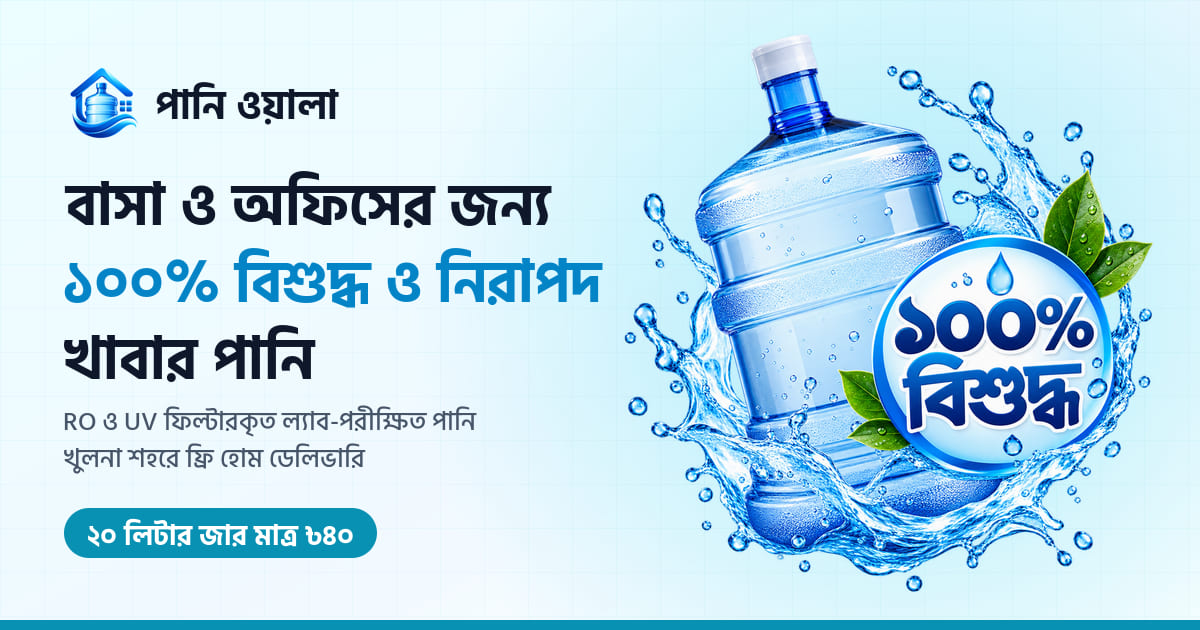
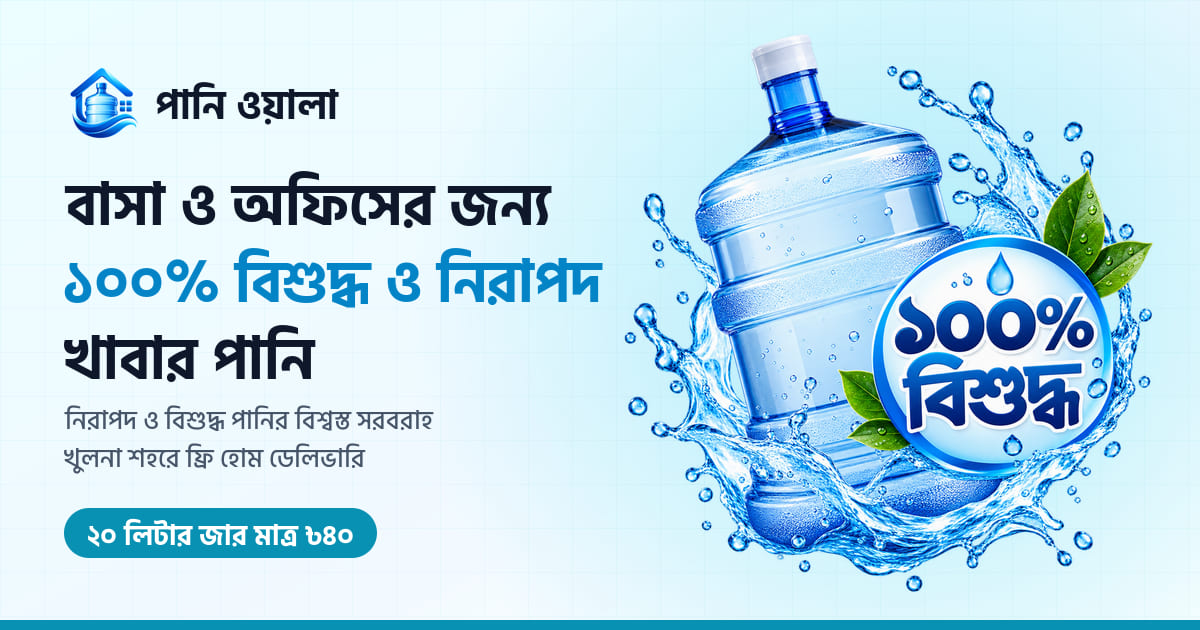
feat: add OpenGraph generation script and core landing page components

Changed region(s): [[0.0308, 0.6333, 0.4008, 0.6937]]

diff --git a/src/components/PurityProcess.tsx b/src/components/PurityProcess.tsx
@@ -28,14 +28,14 @@ export const PurityProcess: React.FC = () => {
     },
     {
       num: '৩',
-      title: 'রিভার্স অসমোসিস (RO) মেমব্রেন',
+      title: 'উন্নত মেমব্রেন পরিশোধন',
       desc: '০.০০০১ মাইক্রন মেমব্রেনের মাধ্যমে ক্ষতিকর ভারী ধাতু যেমন আর্সেনিক, সীসা ও লবণ দূর করে।',
       icon: Microscope,
     },
     {
       num: '৪',
-      title: 'আল্ট্রাভায়োলেট (UV) স্টেরিলাইজার',
-      desc: 'উচ্চ ক্ষমতার UV রশ্মির মাধ্যমে পানিতে থাকা ক্ষতিকর ব্যাকটেরিয়া ও ভাইরাসের ডিএনএ ধ্বংস করে।',
+      title: 'জীবাণুমুক্তকরণ',
+      desc: 'আধুনিক জীবাণুনাশক প্রযুক্তির মাধ্যমে পানিতে থাকা ক্ষতিকর ব্যাকটেরিয়া ও ভাইরাস ধ্বংস করে।',
       icon: Sparkles,
     },
     {
@@ -104,7 +104,7 @@ export const PurityProcess: React.FC = () => {
                 <ShieldCheck className="w-6 h-6 text-white" />
               </div>
               <h3 className="text-lg font-bold mb-2">
-                ল্যাবরেটরি টেস্টেড ও BSTI অনুমোদিত
+                নিরাপদ ও বিশুদ্ধ পানির বিশ্বস্ত সরবরাহ
               </h3>
               <p className="text-xs text-cyan-100 leading-relaxed">
                 প্রতিদিন ডেলিভারির পূর্বে আমাদের ইন-হাউজ ল্যাবে পানির TDS, pH ও মাইক্রোবায়োলজি টেস্ট সম্পন্ন করা হয়।
@@ -112,7 +112,7 @@ export const PurityProcess: React.FC = () => {
             </div>
 
             <div className="pt-4 mt-4 border-t border-white/20 flex items-center justify-between text-xs font-semibold">
-              <span>স্ট্যান্ডার্ড BDS-1414</span>
+              <span>মান নিয়ন্ত্রণ পরীক্ষা</span>
               <span className="bg-white text-cyan-900 px-2 py-0.5 rounded-md text-[10px]">
                 PASS
               </span>

diff --git a/src/components/Faq.tsx b/src/components/Faq.tsx
@@ -8,7 +8,7 @@ export const Faq: React.FC = () => {
   const faqs = [
     {
       q: 'পানির মান ও বিশুদ্ধতা কীভাবে যাচাই করা হয়?',
-      a: 'আমরা বিএসটিআই (BSTI) অনুমোদিত স্ট্যান্ডার্ড BDS-1414 কঠোরভাবে অনুসরণ করি। আমাদের পানি ৭ স্তরের রিভার্স অসমোসিস (RO), ইউভি (UV) এবং ওজোনাইজেশনের মাধ্যমে প্রস্তুত করা হয়। প্রতিটি ব্যাচের TDS, pH এবং মাইক্রোবায়োলজি রিপোর্ট নিয়মিত ল্যাব দ্বারা পরীক্ষা করা হয়।',
+      a: 'আমরা নিরাপদ ও বিশুদ্ধ পানির বিশ্বস্ত সরবরাহ নিশ্চিত করি। আমাদের পানি ৭ স্তরের আধুনিক পরিশোধন প্রক্রিয়ার মাধ্যমে প্রস্তুত করা হয়। প্রতিটি ব্যাচের TDS, pH এবং মাইক্রোবায়োলজি রিপোর্ট নিয়মিত ল্যাব দ্বারা পরীক্ষা করা হয়।',
     },
     {
       q: 'প্রথমবার অর্ডারে আমার কাছে খালি জার না থাকলে কী করতে হবে?',

diff --git a/src/components/Testimonials.tsx b/src/components/Testimonials.tsx
@@ -65,7 +65,7 @@ export const Testimonials: React.FC = () => {
     {
       name: 'মাহফুজুর রহমান',
       role: 'ক্যাফে ও রেস্টুরেন্ট ওনার',
-      text: 'ফুড অ্যান্ড বেভারেজ বিজনেসে পানির পিউরিটি সবচেয়ে জরুরি। পানি ওয়ালা আমাদের নিয়মিত সাপ্লাই দেয়। তাদের সার্ভিস ও বিএসটিআই সার্টিফিকেট আমাদের মানসিক শান্তি দিয়েছে।',
+      text: 'ফুড অ্যান্ড বেভারেজ বিজনেসে পানির পিউরিটি সবচেয়ে জরুরি। পানি ওয়ালা আমাদের নিয়মিত সাপ্লাই দেয়। তাদের নিরাপদ ও বিশুদ্ধ পানির বিশ্বস্ত সরবরাহ আমাদের মানসিক শান্তি দিয়েছে।',
       rating: 5,
       area: 'খালিশপুর, খুলনা',
       avatarBg: 'bg-indigo-600',

diff --git a/src/app/layout.tsx b/src/app/layout.tsx
@@ -28,7 +28,7 @@ const SITE_URL = (
 const SITE_NAME = 'পানি ওয়ালা';
 const TITLE = 'পানি ওয়ালা | ১০০% বিশুদ্ধ ও নিরাপদ খাবার পানি — খুলনায় হোম ডেলিভারি';
 const DESCRIPTION =
-  'RO ও UV ফিল্টারকৃত ল্যাব-পরীক্ষিত বিশুদ্ধ খাবার পানি। বাসা-বাড়ি ও অফিসে ২০ লিটার জার মাত্র ৳৪০ — খুলনা শহরে ফ্রি হোম ডেলিভারি।';
+  'নিরাপদ ও বিশুদ্ধ পানির বিশ্বস্ত সরবরাহ। বাসা-বাড়ি ও অফিসে ২০ লিটার জার মাত্র ৳৪০ — খুলনা শহরে ফ্রি হোম ডেলিভারি।';
 
 // og:image / twitter:image come from app/opengraph-image.jpg + twitter-image.jpg
 // (generated from the hero image by scripts/generate-og-image.mjs).

diff --git a/src/components/Hero.tsx b/src/components/Hero.tsx
@@ -49,7 +49,7 @@ export const Hero: React.FC<HeroProps> = ({ onOpenOrder }) => {
 
             {/* Subtitle */}
             <p className="text-base sm:text-lg text-slate-600 max-w-xl mx-auto lg:mx-0 leading-relaxed">
-              RO ও UV ফিল্টারকৃত ল্যাব-পরীক্ষিত পানি, খুলনা শহরে ফ্রি হোম ডেলিভারি।
+              নিরাপদ ও বিশুদ্ধ পানির বিশ্বস্ত সরবরাহ, খুলনা শহরে ফ্রি হোম ডেলিভারি।
             </p>
 
             {/* Delivery area check */}

diff --git a/src/components/QuickStats.tsx b/src/components/QuickStats.tsx
@@ -24,7 +24,7 @@ export const QuickStats: React.FC = () => {
     {
       icon: ShieldCheck,
       value: '১০০% বিশুদ্ধ',
-      label: 'BSTI অনুমোদিত মান',
+      label: 'নিরাপদ ও বিশ্বস্ত সরবরাহ',
       desc: 'প্রতি ব্যাচ ল্যাব দ্বারা পরীক্ষিত',
     },
   ];

diff --git a/src/components/BrandLogo.tsx b/src/components/BrandLogo.tsx
@@ -46,9 +46,6 @@ export const BrandLogo: React.FC<BrandLogoProps> = ({
             BD
           </span>
         </div>
-        <span className="text-[11px] text-slate-500 font-medium tracking-normal mt-0.5">
-          নিরাপদ ও বিশুদ্ধ পানির বিশ্বস্ত সরবরাহ
-        </span>
       </div>
     </div>
   );
